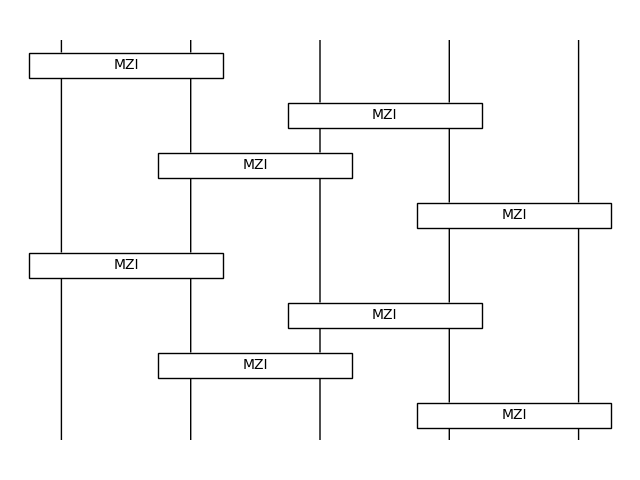
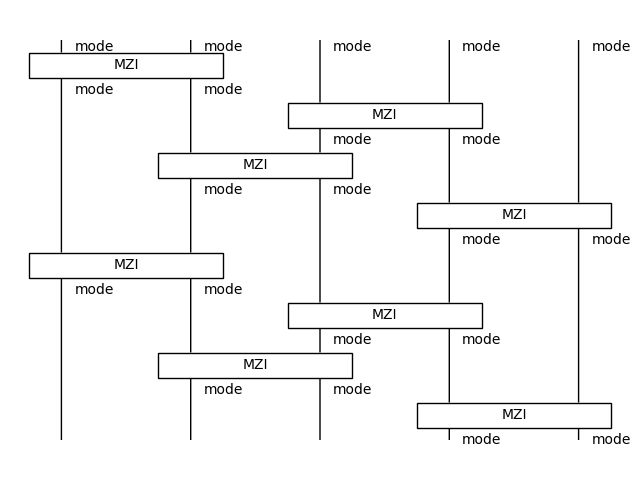
Improving coverage and enhancing the code

diff --git a/test/optyx/test_zw.py b/test/optyx/test_zw.py
@@ -2,33 +2,9 @@ import math
 
 from optyx.zw import *
 from optyx.optyx import mode, Permutation
+from optyx.utils import compare_arrays_of_different_sizes
 import itertools
 import pytest
-
-
-@pytest.mark.skip(reason="Helper function for testing")
-def test_arrays_of_different_sizes(array_1, array_2):
-    # if not isinstance(array_1, np.ndarray):
-    #     array_1 = np.array([array_1])
-    # if not isinstance(array_2, np.ndarray):
-    #     array_2 = np.array([array_2])
-    # if len(array_1.flatten()) < len(array_2.flatten()):
-    #     ax_0 = array_1.shape[0]
-    #     if len(array_1.shape) == 1:
-    #         array_2 = array_2[:ax_0]
-    #     else:
-    #         ax_1 = array_1.shape[1]
-    #         array_2 = array_2[:ax_0, :ax_1]
-    # elif len(array_1.flatten()) > len(array_2.flatten()):
-    #     ax_0 = array_2.shape[0]
-    #     if len(array_2.shape) == 1:
-    #         array_1 = array_1[:ax_0]
-    #     else:
-    #         ax_1 = array_2.shape[1]
-    #         array_1 = array_1[:ax_0, :ax_1]
-    # else:
-    #     pass
-    return np.allclose(array_1, array_2)
 
 
 # Axioms
@@ -82,7 +58,7 @@ def test_spider_fusion(
 
     S1_infty_r = Z(fn_mult, legs_a_in + legs_b_in, legs_a_out + legs_b_out)
 
-    assert test_arrays_of_different_sizes(
+    assert compare_arrays_of_different_sizes(
         S1_infty_l.to_tensor().eval().array,
         S1_infty_r.to_tensor().eval().array,
     )
@@ -93,7 +69,7 @@ def test_Z_conj(legs: int):
     Z_conj_l = Z(lambda i: 1j, legs, legs).dagger()
     Z_conj_r = Z(lambda i: -1j, legs, legs)
 
-    assert test_arrays_of_different_sizes(
+    assert compare_arrays_of_different_sizes(
         Z_conj_l.to_tensor().eval().array,
         Z_conj_r.to_tensor().eval().array,
     )
@@ -110,7 +86,7 @@ def test_bSym():
     bSym_l = W(2)
     bSym_r = W(2) >> Swap(mode, mode)
 
-    assert test_arrays_of_different_sizes(
+    assert compare_arrays_of_different_sizes(
         bSym_l.to_tensor().eval().array,
         bSym_r.to_tensor().eval().array,
     )
@@ -120,7 +96,7 @@ def test_bSym_input_dims():
     bSym_l = W(2)
     bSym_r = W(2) >> Swap(mode, mode)
 
-    assert test_arrays_of_different_sizes(
+    assert compare_arrays_of_different_sizes(
         bSym_l.to_tensor([5]).eval().array,
         bSym_r.to_tensor([5]).eval().array,
     )
@@ -130,7 +106,7 @@ def test_bAso():
     bAso_l = W(2) >> W(2) @ Id(1)
     bAso_r = W(2) >> Id(1) @ W(2)
 
-    assert test_arrays_of_different_sizes(
+    assert compare_arrays_of_different_sizes(
         bAso_l.to_tensor().eval().array,
         bAso_r.to_tensor().eval().array,
     )
@@ -140,7 +116,7 @@ def test_doubleSWAP():
     swap_l = Swap(mode, mode) >> Swap(mode, mode)
     swap_r = Id(2)
 
-    assert test_arrays_of_different_sizes(
+    assert compare_arrays_of_different_sizes(
         swap_l.to_tensor().eval().array,
         swap_r.to_tensor().eval().array,
     )
@@ -150,7 +126,7 @@ def test_SWAP_dagger_SWAP():
     swap_l = Swap(mode, mode).dagger()
     swap_r = Swap(mode, mode)
 
-    assert test_arrays_of_different_sizes(
+    assert compare_arrays_of_different_sizes(
         swap_l.to_tensor().eval().array,
         swap_r.to_tensor().eval().array,
     )
@@ -167,7 +143,7 @@ def test_Id_eq(k: int):
 def test_permutation_dagger():
     perm = Permutation(Mode(2), [1, 0])
 
-    assert test_arrays_of_different_sizes(
+    assert compare_arrays_of_different_sizes(
         perm.to_tensor().eval().array,
         perm.dagger().to_tensor().eval().array,
 
@@ -177,7 +153,7 @@ def test_permutation_dagger():
 def test_permutation_path_dagger():
     perm = Permutation(Mode(2), [1, 0])
 
-    assert test_arrays_of_different_sizes(
+    assert compare_arrays_of_different_sizes(
         perm.to_path().array,
         perm.dagger().to_path().array,
     )
@@ -203,7 +179,7 @@ def test_Id_dagger_Id(k: int):
     id_l = Id(k).dagger()
     id_r = Id(k)
 
-    assert test_arrays_of_different_sizes(
+    assert compare_arrays_of_different_sizes(
         id_l.to_tensor().eval().array,
         id_r.to_tensor().eval().array,
     )
@@ -215,7 +191,7 @@ def test_bBa():
     )
     bBa_r = W(2).dagger() >> W(2)
 
-    assert test_arrays_of_different_sizes(
+    assert compare_arrays_of_different_sizes(
         bBa_l.to_tensor().eval().array,
         bBa_r.to_tensor().eval().array,
     )
@@ -225,7 +201,7 @@ def test_bId():
     bId_l = W(2) >> Select(0) @ Id(1)
     bId_r = Id(1)
 
-    assert test_arrays_of_different_sizes(
+    assert compare_arrays_of_different_sizes(
         bId_l.to_tensor().eval().array,
         bId_r.to_tensor().eval().array,
     )
@@ -245,7 +221,7 @@ def test_bZBA():
     )
     bZBA_r = W(2).dagger() >> Z(lambda i: 1, 1, 2)
 
-    assert test_arrays_of_different_sizes(
+    assert compare_arrays_of_different_sizes(
         bZBA_l.to_tensor().eval().array,
         bZBA_r.to_tensor().eval().array,
     )
@@ -255,7 +231,7 @@ def test_K0_infty():
     K0_infty_l = Create(4) >> Z(lambda i: 1, 1, 2)
     K0_infty_r = Create(4) @ Create(4)
 
-    assert test_arrays_of_different_sizes(
+    assert compare_arrays_of_different_sizes(
         K0_infty_l.to_tensor().eval().array,
         K0_infty_r.to_tensor().eval().array,
     )
@@ -265,7 +241,7 @@ def test_scalar():
     scalar_l = Create(1) >> Z([1, 2], 1, 1) >> Select(1)
     scalar_r = Z([2], 0, 0)
 
-    assert test_arrays_of_different_sizes(
+    assert compare_arrays_of_different_sizes(
         scalar_l.to_tensor().eval().array,
         scalar_r.to_tensor().eval().array,
     )
@@ -275,7 +251,7 @@ def test_scalar_with_IndexableAmplitudes():
     scalar_l = Create(1) >> Z(lambda i: i, 1, 1) >> Select(1)
     scalar_r = Z(lambda i: i + 1, 0, 0)
 
-    assert test_arrays_of_different_sizes(
+    assert compare_arrays_of_different_sizes(
         scalar_l.to_tensor().eval().array,
         scalar_r.to_tensor().eval().array,
     )
@@ -285,15 +261,15 @@ def test_bone():
     bone_l = Create(1) >> Select(0)
     bone_r = Create(0) >> Select(1)
 
-    assert test_arrays_of_different_sizes(bone_l.to_tensor().eval().array, 0)
-    assert test_arrays_of_different_sizes(0, bone_r.to_tensor().eval().array)
+    assert compare_arrays_of_different_sizes(bone_l.to_tensor().eval().array, [0])
+    assert compare_arrays_of_different_sizes([0], bone_r.to_tensor().eval().array)
 
 
 def test_branching():
     branching_l = Create(1) >> W(2)
     branching_r = Create(1) @ Create(0) + Create(0) @ Create(1)
 
-    assert test_arrays_of_different_sizes(
+    assert compare_arrays_of_different_sizes(
         branching_l.to_tensor().eval().array,
         branching_r.to_tensor().eval().array,
     )
@@ -311,7 +287,7 @@ def test_normalisation(k: int):
 
     normalisation_r = normalisation_r >> W(k).dagger()
 
-    assert test_arrays_of_different_sizes(
+    assert compare_arrays_of_different_sizes(
         normalisation_l.to_tensor().eval().array,
         normalisation_r.to_tensor().eval().array,
     )
@@ -326,7 +302,7 @@ def test_lemma_B6(k: int):
     lemma_B6_l = Create(k) >> Z(lambda i: i + 1, 1, 1)
     lemma_B6_r = Create(k) @ Z([k + 1], 0, 0)
 
-    assert test_arrays_of_different_sizes(
+    assert compare_arrays_of_different_sizes(
         lemma_B6_l.to_tensor().eval().array,
         lemma_B6_r.to_tensor().eval().array,
     )
@@ -344,12 +320,19 @@ def test_select_eq():
     assert Select(2) != Select(1)
 
 
-def calculate_num_creations_selections():
+def test_calculate_num_creations_selections():
     d1 = Create(1) + Create(1)
     d2 = Create(1)
     assert calculate_num_creations_selections(
         d1
     ) == calculate_num_creations_selections(d2)
+    d3 = Create(1) >> Select(0) @ Create(1)
+    assert calculate_num_creations_selections(
+        d1
+    ) != calculate_num_creations_selections(d3)
+    assert calculate_num_creations_selections(
+        d2 + d3
+    ) == calculate_num_creations_selections(d3)
 
 
 def test_lemma_B8():
@@ -362,7 +345,7 @@ def test_lemma_B8():
 
     lemma_B8_r = Create(1) >> W(2) >> Z([1, 1], 1, 2) @ Z([1, 1], 1, 0)
 
-    assert test_arrays_of_different_sizes(
+    assert compare_arrays_of_different_sizes(
         lemma_B8_l.to_tensor().eval().array,
         lemma_B8_r.to_tensor().eval().array,
     )
@@ -378,7 +361,7 @@ def test_lemma_B7():
         >> Z(lambda i: 1, 2, 0) @ Z(lambda i: 1, 2, 0)
     )
 
-    assert test_arrays_of_different_sizes(
+    assert compare_arrays_of_different_sizes(
         lemma_B7_l.to_tensor().eval().array,
         lemma_B7_r.to_tensor().eval().array,
     )
@@ -402,7 +385,7 @@ def test_prop_54():
         >> W(2).dagger()
     )
 
-    assert test_arrays_of_different_sizes(
+    assert compare_arrays_of_different_sizes(
         prop_54_l.to_tensor().eval().array,
         prop_54_r.to_tensor().eval().array,
     )
@@ -438,7 +421,7 @@ def test_hom(postselect_and_prob: list):
         >> Select(select_1) @ Select(select_2)
     )
 
-    assert test_arrays_of_different_sizes(
+    assert compare_arrays_of_different_sizes(
         Hong_Ou_Mandel.to_tensor().eval().array,
         prob,
     )

diff --git a/discopy/optyx/utils.py b/discopy/optyx/utils.py
@@ -49,32 +49,16 @@ def multinomial(lst: list) -> int:
 
 
 def compare_arrays_of_different_sizes(
-    array_1: list | np.ndarray, array_2: list | np.ndarray
+    array_1: list | np.ndarray, array_2: list | np.ndarray, tol: float = 1e-08
 ) -> bool:
     """ZW diagrams which are equal in infinite dimensions
     might be intrepreted as arrays of different dimensions
     if we truncate them to a finite number of dimensions"""
-    if not isinstance(array_1, np.ndarray):
-        array_1 = np.array([array_1])
-    if not isinstance(array_2, np.ndarray):
-        array_2 = np.array([array_2])
-    if len(array_1.flatten()) < len(array_2.flatten()):
-        ax_0 = array_1.shape[0]
-        if len(array_1.shape) == 1:
-            array_2 = array_2[:ax_0]
-        else:
-            ax_1 = array_1.shape[1]
-            array_2 = array_2[:ax_0, :ax_1]
-    elif len(array_1.flatten()) > len(array_2.flatten()):
-        ax_0 = array_2.shape[0]
-        if len(array_2.shape) == 1:
-            array_1 = array_1[:ax_0]
-        else:
-            ax_1 = array_2.shape[1]
-            array_1 = array_1[:ax_0, :ax_1]
-    else:
-        pass
-    return np.allclose(array_1, array_2)
+
+    # See https://stackoverflow.com/questions/46042469/compare-two-arrays-with-different-size-python-numpy  # noqa: E501
+    a, b = np.array(array_1).flatten(), np.array(array_2).flatten()
+    n = min(len(a), len(b))
+    return np.flatnonzero(np.abs(a[:n] - b[:n]) > tol).size == 0
 
 
 def get_index_from_list(

diff --git a/discopy/optyx/zx.py b/discopy/optyx/zx.py
@@ -95,16 +95,6 @@ class Spider(Box):
         phase_str = f", {self.phase}" if self.phase else ""
         self.name = f"{factory_str}({n_legs_in}, {n_legs_out}{phase_str})"
 
-    def __setstate__(self, state):
-        if "_name" in state and state["_name"] == type(self).__name__:
-            phase = state.get("_data", None)
-            phase_str = f", {phase}" if phase else ""
-            state["_name"] = (
-                type(self).__name__
-                + f"({state['_dom'].n}, {state['_cod'].n}{phase_str})"
-            )
-        super().__setstate__(state)
-
     def __repr__(self):
         return str(self).replace(
             type(self).__name__, factory_name(type(self))

diff --git a/discopy/optyx/zw.py b/discopy/optyx/zw.py
@@ -591,7 +591,7 @@ def calculate_num_creations_selections(diagram: Diagram) -> tuple:
         arr_selections_creations = []
         for term in diagram:
             arr_selections_creations.append(
-                term.calculate_num_creations_selections(diagram)
+                calculate_num_creations_selections(term)
             )
         n_selections = max(i[0] for i in arr_selections_creations)
         n_creations = max(i[1] for i in arr_selections_creations)

diff --git a/test/optyx/test_zw_truncated_arrays.py b/test/optyx/test_zw_truncated_arrays.py
@@ -124,7 +124,6 @@ def kron_truncated_array_Z(diagram, input_dims: list[int]) -> np.ndarray[complex
             result_matrix += np.outer(vec_out, vec_in) * diagram.amplitudes[i]
     return result_matrix
 
-test_pairs = []
 test_pairs = [[i] for i in range(0, 10, 2)]
 test_pairs += [[i, j] for i in range(0, 10, 2) for j in range(0, 10, 2)]
 test_pairs += [[i, j, k] for i in range(0, 10, 2) for j in range(0, 10, 2) for k in range(0, 10, 2)]
